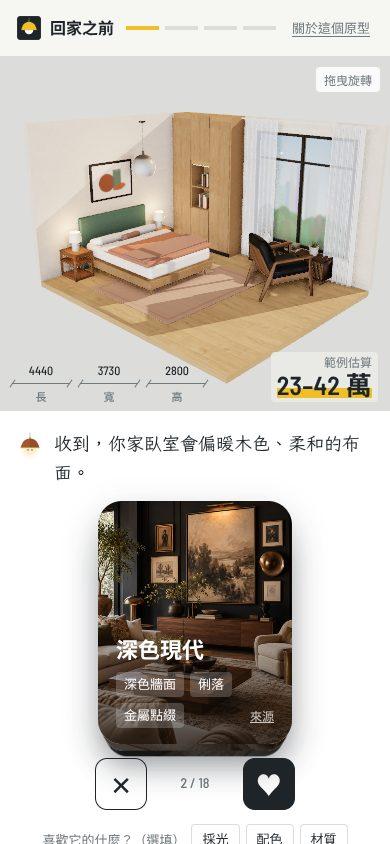
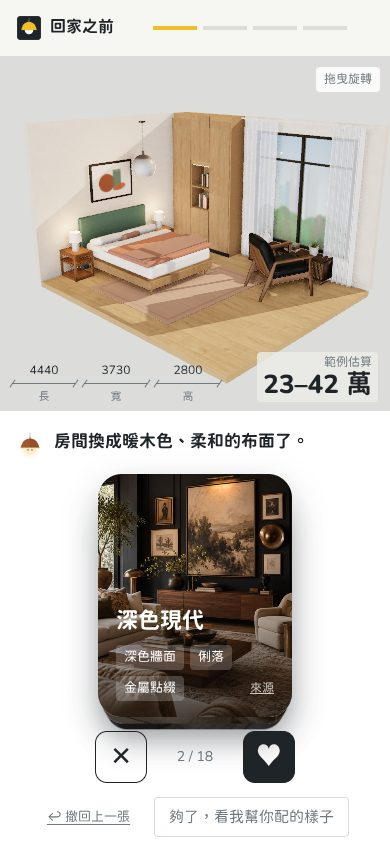
Phone: let the dimension lines shrink so the stage footer never overflows
Claude-Session: https://claude.ai/code/session_01UsR5WhLbLTv65JDxnvzwBu

diff --git a/prototype/fast-route/index.html b/prototype/fast-route/index.html
@@ -234,7 +234,8 @@ dialog.viewer{max-width:min(96vw,1100px);width:100%}dialog.viewer svg{width:100%
   .scene{inset:0 0 0;border-radius:0}
   .stagefoot{left:12px;right:12px;bottom:8px;height:auto;gap:6px 10px;flex-wrap:wrap}
   .swatches{order:-1;flex-basis:100%;margin:0}
-  .dim{min-width:58px;font-size:12px}.dims{gap:10px}
+  .dims{gap:8px;flex:1 1 0;min-width:0}.dim{min-width:0;flex:1 1 0;max-width:64px;font-size:12px}.pricebox{flex:none}
+  .stage{overflow:clip}
   .pricebox b{font-size:26px}.pricebox{background:rgba(236,237,232,.82);padding:4px 6px;border-radius:4px}
   .hint{right:10px;top:10px}.seg{left:10px;top:10px}.seg button{min-width:40px;height:30px;padding:0 8px}
   .swatch{width:28px;height:28px}
